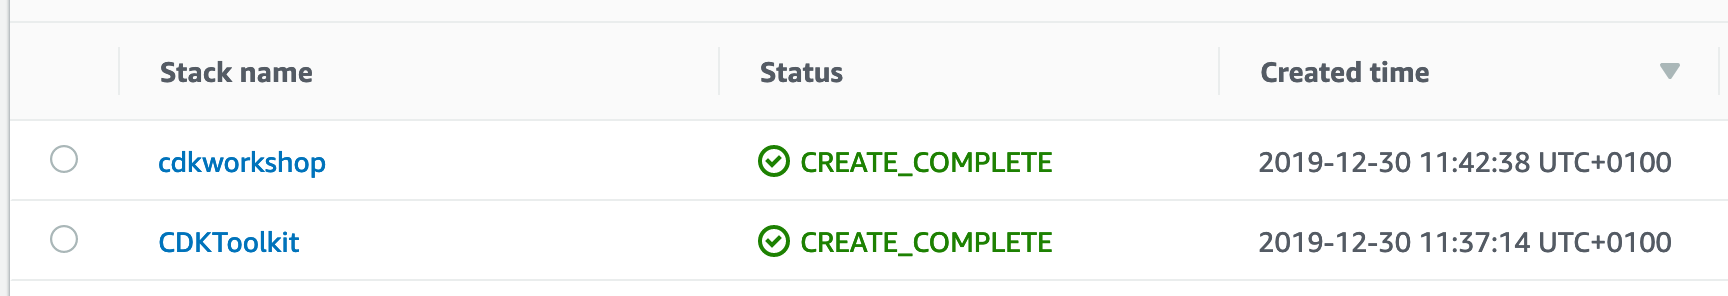
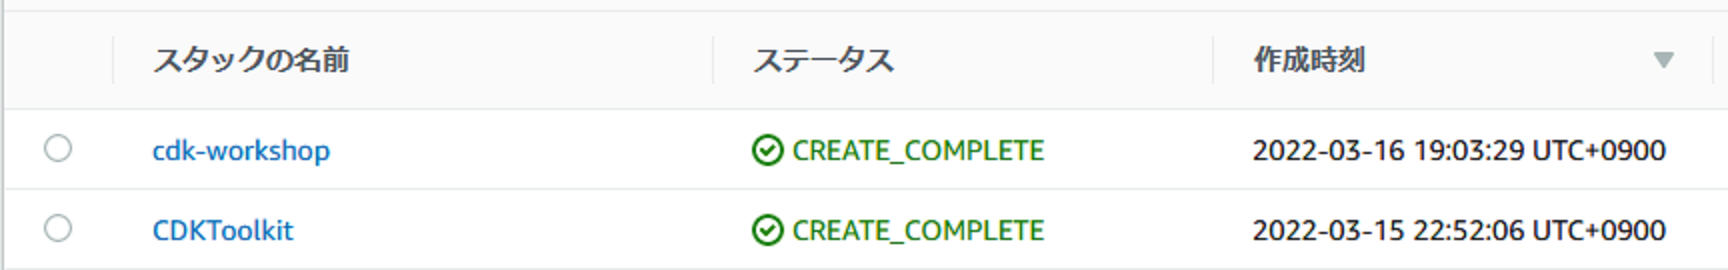
Translate 2-create-project

diff --git a/workshop/content/japanese/30-python/20-create-project/300-structure.md b/workshop/content/japanese/30-python/20-create-project/300-structure.md
@@ -1,36 +1,36 @@
 +++
-title = "Project structure"
+title = "プロジェクトの構造"
 weight = 300
 +++
 
-## Open your IDE
+## IDEを開く
 
-Now's a good time to open the project in your favorite IDE and explore.
+お気に入りのIDEでプロジェクトを開き、ディレクトリの中身を見てみましょう。
 
-> If you use VSCode, you can just type `code .` within the project directory.
+> VSCodeを使用する場合は、プロジェクトディレクトリ内で `code .` と入力するだけです。
 
-## Explore your project directory
+## プロジェクトディレクトリを探索する
 
-You'll see something like this:
+次のような内容が表示されます。
 
 ![](./structure.png)
 
-* .venv - The python virtual envirnment information discussed in the previous section.
-* cdk_workshop — A Python module directory.
-  * cdk_workshop.egg-info - Folder that contains build information relevant for the packaging on the project
-  * cdk_workshop_stack.py—A custom CDK stack construct for use in your CDK application.
-* tests — Contains all tests.
-  * unit — Contains unit tests.
-    * test_cdk_workshop.py—A trivial test of the custom CDK stack created in the cdk_workshop package. This is mainly to demonstrate how tests can be hooked up to the project.
-* app.py — The “main” for this sample application.
-* cdk.json — A configuration file for CDK that defines what executable CDK should run to generate the CDK construct tree.
-* README.md — The introductory README for this project.
-* requirements.txt—This file is used by pip to install all of the dependencies for your application. In this case, it contains only -e . This tells pip to install the requirements specified in setup.py. It also tells pip to run python setup.py develop to install the code in the cdk_workshop module so that it can be edited in place.
-* setup.py — Defines how this Python package would be constructed and what the dependencies are.
+* .venv — 前のセクションで説明したPython 仮想環境の情報。
+* cdk_workshop — Python のモジュールディレクトリ。
+  <!-- * cdk_workshop.egg-info - Folder that contains build information relevant for the packaging on the project -->
+  * cdk_workshop_stack.py - サンプルアプリケーションで使用するカスタム CDK スタックです。
+* tests — すべてのテストを含んでいます。
+  * unit — 単体テストを含んでいます。
+    * test_cdk_workshop.py — CDK パッケージで作成されたカスタム CDK スタックをテストするための簡単なコード。これは、プロジェクトにテストを組み込むための一例として参考になります。
+* app.py — サンプルアプリケーションの「メイン」です。
+* cdk.json — CDK の設定ファイル。コンストラクトツリーの生成をどのように実行するか定義します。
+* README.md — このプロジェクトの始め方を説明しています。
+* requirements.txt — このファイルは依存関係のあるパッケージを pip でインストールするために利用されます。<!-- In this case, it contains only -e . This tells pip to install the requirements specified in setup.py. It also tells pip to run python setup.py develop to install the code in the cdk_workshop module so that it can be edited in place. -->
+<!-- * setup.py — この Python パッケージの構築方法と依存関係を定義します。 -->
 
-## Your app's entry point
+## エントリーポイント
 
-Let's have a quick look at `app.py`:
+`app.py`ファイルを簡単に見てみましょう。
 
 ```python
 #!/usr/bin/env python3
@@ -46,13 +46,12 @@ CdkWorkshopStack(app, "cdk-workshop")
 app.synth()
 ```
 
-This code loads and instantiates an instance of the `CdkWorkshopStack` class from
-`cdk_workshop/cdk_workshop_stack.py` file. We won't need to look at this file anymore.
+このコードは `cdk_workshop/cdk_workshop_stack.py` ファイルから
+`CdkWorkshopStack` クラスをロードしてインスタンス化します。
 
-## The main stack
+## メインスタック
 
-Open up `cdk_workshop/cdk_workshop_stack.py`. This is where the meat of our application
-is:
+`cdk_workshop/cdk_workshop_stack.py` を開いてください。これがアプリケーションの要のファイルです。
 
 ```python
 from constructs import Construct
@@ -81,11 +80,10 @@ class CdkWorkshopStack(Stack):
         topic.add_subscription(subs.SqsSubscription(queue))
 ```
 
-As you can see, our app was created with sample CDK stack
-(`CdkWorkshopStack`).
+ご覧のとおり、CDK スタック(`CdkWorkshopStack`)　 によってアプリケーションが作成されます。
 
-The stack includes:
+このスタックは次のリソースを含んでいます。
 
-- SQS Queue (`sqs.Queue`)
-- SNS Topic (`sns.Topic`)
-- Subscribes the queue to receive any messages published to the topic (`topic.add_subscription`)
+- SQS キュー (`sqs.Queue`)
+- SNS トピック (`sns.Topic`)
+- SNS トピックにパブリッシュされたメッセージを受信するように SQS キューをサブスクライブします。 (`topic.add_subscription`)

diff --git a/workshop/content/japanese/30-python/20-create-project/500-deploy.md b/workshop/content/japanese/30-python/20-create-project/500-deploy.md
@@ -3,40 +3,36 @@ title = "cdk deploy"
 weight = 500
 +++
 
-Okay, we've got a CloudFormation template. What's next? __Let's deploy it into our account!__
+さて、CloudFormation テンプレートが得られました。早速、 __それを使ってデプロイしましょう！__
 
-## Bootstrapping an environment
+## 環境のブートストラップ
 
-The first time you deploy an AWS CDK app into an environment (account/region),
-you'll need to install a "bootstrap stack". This stack includes resources that
-are needed for the toolkit's operation. For example, the stack includes an S3
-bucket that is used to store templates and assets during the deployment process.
+AWS CDK アプリケーションを環境 (アカウント/リージョン) に初めてデプロイするときは、「ブートストラップスタック」をインストールする必要があります。このスタックには、ツールキットの操作に必要なリソースが含まれています。たとえば、このスタックには、デプロイプロセス中にテンプレートとアセットを保存するための S3 バケットが含まれています。
 
-You can use the `cdk bootstrap` command to install the bootstrap stack into an
-environment:
+`cdk bootstrap` コマンドを使用して、ブートストラップスタックを環境にインストールできます。
 
 ```
 cdk bootstrap
 ```
 
-Then:
+すると・・・
 
 ```
  ⏳  Bootstrapping environment 999999999999/us-east-1...
 ...
 ```
 
-Hopefully this command finished successfully and we can move on to deploy our app.
+このコマンドが正常に終了すれば、アプリケーションのデプロイに進むことができます。
 
-## Let's deploy
+## デプロイしましょう
 
-Use `cdk deploy` to deploy a CDK app:
+`cdk deploy` を使って CDK app をデプロイします。
 
 ```
 cdk deploy
 ```
 
-You should see a warning like the following:
+次のような警告が表示されます。
 
 ```
 This deployment will make potentially sensitive changes according to your current security approval level (--require-approval broadening).
@@ -55,13 +51,9 @@ IAM Statement Changes
 Do you wish to deploy these changes (y/n)?
 ```
 
-This is warning you that deploying the app entails some risk.  Since we need to
-allow the topic to send messages to the queue and we are also creating an IAM
-User and granting access to the new Buckets, enter **y** to deploy the stack
-and create the resources.
+これは、デプロイにセキュリティに関するリスクが伴うことを警告するものです。SNS トピックが SQS キューにメッセージを送信できるようアクセスポリシーを作成してアクセス権を付与する必要があります。**y** と入力してスタックをデプロイし、リソースを作成します。
 
-Output should look like the following, where ACCOUNT-ID is your account ID, REGION is the region in which you created the app,
-and STACK-ID is the unique identifier for your stack:
+出力は次のようになります。ACCOUNT-ID はアカウント ID、REGION はアプリケーションを作成したリージョン、STACK-ID はスタックの一意の識別子です。
 
 ```
 cdk-workshop: deploying...
@@ -88,24 +80,20 @@ Stack ARN:
 arn:aws:cloudformation:us-west-2:************:stack/cdk-workshop/********-****-****-****-************
 ```
 
-## The CloudFormation Console
+## CloudFormation コンソール
 
-CDK apps are deployed through AWS CloudFormation. Each CDK stack maps 1:1 with
-CloudFormation stack.
+CDK アプリケーションは AWS CloudFormation を通じてデプロイされます。各 CDK スタックは CloudFormation スタックと 1:1 でマッピングされます。
 
-This means that you can use the AWS CloudFormation console in order to manage
-your stacks.
+つまり、AWS CloudFormation コンソールを使用してスタックを管理できます。
 
-Let's take a look at the [AWS CloudFormation
-console](https://console.aws.amazon.com/cloudformation/home).
+[AWS CloudFormation コンソール](https://console.aws.amazon.com/cloudformation/home) を見てみましょう。
 
-You will likely see something like this (if you don't, make sure you are in the correct region):
+次のような内容が表示されているはずです。 (表示されない場合は、正しいリージョンを選択しているか確認してください)
 
 ![](./cfn1.png)
 
-If you select `cdk-workshop` and open the __Resources__ tab, you will see the
-physical identities of our resources:
+`cdk-workshop`を選択して __Resources__ タブを開くと、リソースの物理ID が表示されます。
 
 ![](./cfn2.png)
 
-# I am ready for some actual coding!
+# これでコーディングの準備が整いました

diff --git a/workshop/content/japanese/30-python/20-create-project/400-synth.md b/workshop/content/japanese/30-python/20-create-project/400-synth.md
@@ -3,19 +3,13 @@ title = "cdk synth"
 weight = 400
 +++
 
-## Synthesize a template from your app
+## CDK アプリケーションからテンプレートを合成する
 
-AWS CDK apps are effectively only a __definition__ of your infrastructure using
-code. When CDK apps are executed, they produce (or "__synthesize__", in CDK
-parlance) an AWS CloudFormation template for each stack defined in your
-application.
+AWS CDK アプリケーションは、事実上、コードを使用したインフラストラクチャの __定義__ にすぎません。CDK アプリケーションが実行されると、アプリケーションで定義されたスタックごとに AWS CloudFormation テンプレートが生成（ CDK 用語では「 __合成__ 」）されます。
 
-To synthesize a CDK app, use the `cdk synth` command. Let's check out the
-template synthesized from the sample app.
+CDK アプリを合成するには、 `cdk synth` コマンドを使用します。サンプルアプリから合成されたテンプレートを確認してみましょう。
 
-{{% notice info %}} The **CDK CLI** requires you to be in the same directory
-as your `cdk.json` file. If you have changed directories in your terminal,
-please navigate back now.{{% /notice %}}
+{{% notice info %}} **CDK CLI** は、 `cdk.json` ファイルと同じディレクトリで実行してください。ターミナルでディレクトリを変更した場合は、同じディレクトリに戻ってください。{{% /notice %}}
 
 ```
 $ cdk ls
@@ -23,13 +17,13 @@ cdk_workshop
 $ cd cdk_workshop
 ```
 
-We can then synthesize:
+`cdk synth` コマンドを使用して合成します。
 
 ```
 $ cdk synth
 ```
 
-This will output the following CloudFormation template:
+すると、次の CloudFormation テンプレートが出力されます。
 
 ```yaml
 Resources:
@@ -83,16 +77,11 @@ Resources:
       Modules: aws-cdk=1.18.0,jsii-runtime=Python/3.7.3
 ```
 
-As you can see, this template includes a bunch of resources:
+ご覧のとおり、このテンプレートにはたくさんのリソースが含まれています。
 
-- **AWS::SQS::Queue** - our queue
-- **AWS::SNS::Topic** - our topic
-- **AWS::SNS::Subscription** - the subscription between the queue and the topic
-- **AWS::SQS::QueuePolicy** - the IAM policy which allows this topic to send
-messages to the queue
+- **AWS::SQS::Queue** - SQS キュー
+- **AWS::SNS::Topic** - SNS トピック
+- **AWS::SNS::Subscription** - キューとトピックの間のサブスクリプション
+- **AWS::SQS::QueuePolicy** - トピックがキューにメッセージを送信することを許可する IAM ポリシー
 
-{{% notice info %}} The **AWS::CDK::Metadata** resource is automatically added
-by the toolkit to every stack. It is used by the AWS CDK team for analytics and
-to allow us to identify versions with security issues. See [Version Reporting](https://docs.aws.amazon.com/cdk/latest/guide/tools.html) in
-the AWS CDK User Guide for more details. We will omit the metadata resource in
-diff views for the rest of this workshop {{% /notice %}}
+{{% notice info %}} **AWS:: CDK:: Metadata** リソースは、ツールキットによってすべてのスタックに自動的に追加されます。セキュリティ上の問題があるバージョンを特定できるようAWS CDK チームが分析に使用します。詳細については、AWS CDK ユーザーガイドの [バージョンレポート](https://docs.aws.amazon.com/cdk/latest/guide/tools.html) を参照してください。以降、このワークショップではメタデータリソースを省略します。{{% /notice %}}

diff --git a/workshop/content/japanese/30-python/20-create-project/200-virtualenv.md b/workshop/content/japanese/30-python/20-create-project/200-virtualenv.md
@@ -1,34 +1,27 @@
 +++
-title = "Activating the virtualenv"
+title = "virtualenvのアクティベート"
 weight = 200
 +++
 
-## Activating the Virtualenv
+## virtualenvのアクティベート
 
-The init script we ran in the last step created a bunch of code to help get us
-started but it also created a virtual environment within our directory.  If you
-haven't used virtualenv before, you can find out more
-[here](https://docs.python.org/3/tutorial/venv.html) but the bottom line is
-that they allow you have a self-contained, isolated environment to run Python
-and install arbitrary packages without polluting your system Python.
+前のステップで実行した init スクリプトは、作業を開始するのに役立つ一連のコードを作成しましたが、ディレクトリ内に仮想環境も作成しています。 virtualenv によってシステムの Python を汚すことなく任意のパッケージをインストールできる隔離された個別の環境を持つことができます。virtualenv の詳しい説明は[こちら](https://docs.python.org/3/tutorial/venv.html)をご参照ください。
 
-To take advantage of the virtual environment that was created, you have to
-activate it within your shell.  The generated README file provides all of this
-information but we are calling it out here because it is important.  To
-activate your virtualenv on a Linux or MacOs platform:
+作成された仮想環境を利用するには、仮想環境をアクティベートする必要があります。生成された README ファイルに書かれているとおりですが、肝心なアクティベートの方法は次のとおりです。
+
+Linux または macOS プラットフォームで virtualenv をアクティベートするには、こちらを使用します。
 
 ```
 source .venv/bin/activate
 ```
 
-One a Windows platform, you would use this:
+Windowsプラットフォームでは、こちらを使用します。
 
 ```
 .venv\Scripts\activate.bat
 ```
 
-Now that the virtual environment is activated, you can safely install the
-required python modules.
+これで仮想環境がアクティブになったので、必要な python モジュールを安全にインストールできます。
 
 ```
 pip install -r requirements.txt

diff --git a/workshop/content/japanese/30-python/20-create-project/100-cdk-init.md b/workshop/content/japanese/30-python/20-create-project/100-cdk-init.md
@@ -3,9 +3,9 @@ title = "cdk init"
 weight = 100
 +++
 
-## Create project directory
+## プロジェクトディレクトリの作成
 
-Create an empty directory on your system:
+空のディレクトリを作成し、カレントディレクトリを変更します。
 
 ```
 mkdir cdk_workshop && cd cdk_workshop
@@ -13,15 +13,13 @@ mkdir cdk_workshop && cd cdk_workshop
 
 ## cdk init
 
-We will use `cdk init` to create a new Python CDK project:
+新しい Python CDK プロジェクトを作成するために `cdk init` を使います。
 
 ```
 cdk init sample-app --language python
 ```
 
-Output should look like this (you can safely ignore warnings about
-initialization of a git repository, this probably means you don't have git
-installed, which is fine for this workshop):
+次のように出力されます（gitがインストールされていない場合、Gitリポジトリの初期化に関する警告が表示されますが、無視しても問題ありません。）
 
 ````bash
 Applying project template sample-app for python
@@ -94,8 +92,8 @@ command.
 Enjoy!
 ````
 
-As you can see, it shows us a bunch of useful commands to get us started.
+ご覧のとおり、作業を開始するのに役立つコマンドがたくさん表示されています。
 
-## See Also
+## 参考情報
 
 - [AWS CDK Command Line Toolkit (cdk) in the AWS CDK User Guide](https://docs.aws.amazon.com/CDK/latest/userguide/tools.html)

diff --git a/workshop/content/japanese/30-python/20-create-project/_index.md b/workshop/content/japanese/30-python/20-create-project/_index.md
@@ -1,13 +1,11 @@
 +++
-title = "New Project"
+title = "新しいプロジェクト"
 chapter = true
 weight = 20
 +++
 
-# Creating your first CDK project
+# 初めての CDK プロジェクトを作成する
 
-In this chapter we will use `cdk init` to create a new AWS CDK Python project.
+この章では、`cdk init` を使用して新しい AWS CDK Python プロジェクトを作成します。
 
-We will also learn how to use the CDK Toolkit to synthesize an AWS
-CloudFormation template for the starter app and how to deploy your app into your
-account.
+また、CDK Toolkit を使用してサンプルアプリケーション用の AWS CloudFormation テンプレートを合成する方法とアプリケーションをデプロイする方法について学習します。
